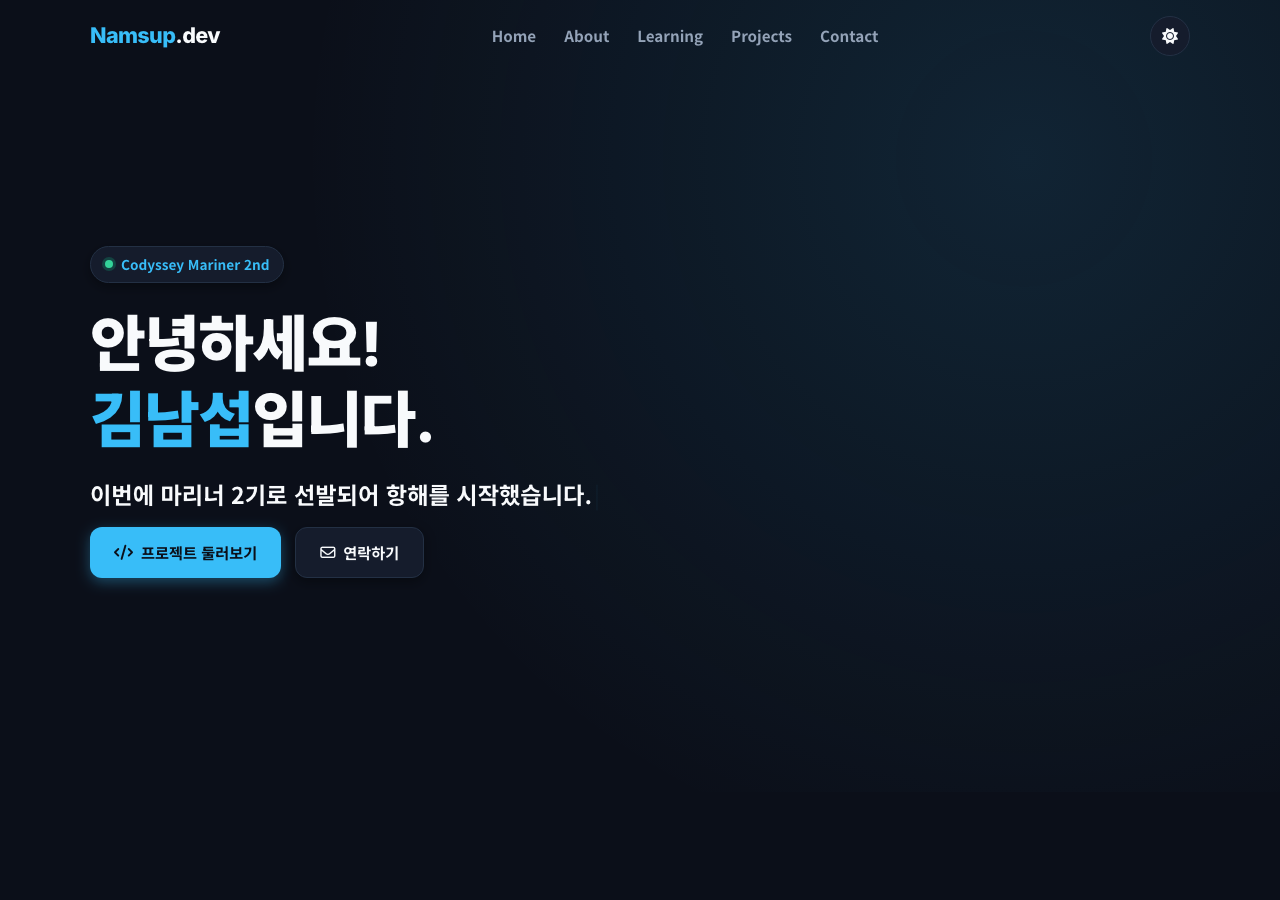
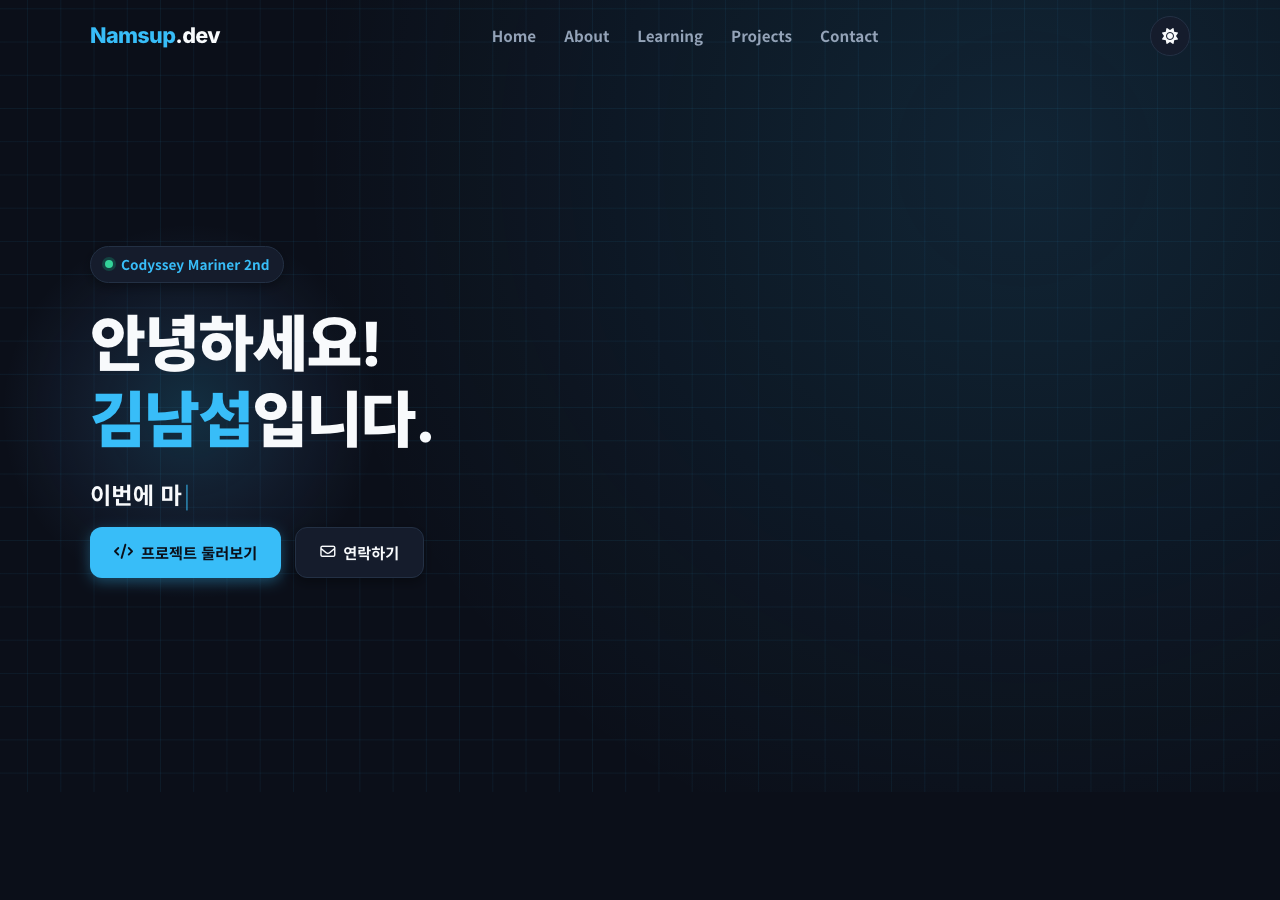
docs: update screenshots with 3D features and add query theme support

Changed region(s): [[0.0625, 0.3733, 0.4688, 0.56], [0.25, 0.5911, 0.2812, 0.6222]]

diff --git a/js/main.js b/js/main.js
@@ -36,13 +36,18 @@ document.addEventListener('DOMContentLoaded', () => {
     const themeToggleBtn = document.querySelector('#themeToggleBtn');
     const themeIcon = document.querySelector('#themeIcon');
 
+    // 0) URL 쿼리 파라미터 확인 (?theme=light 또는 ?theme=dark)
+    const urlTheme = new URLSearchParams(window.location.search).get('theme');
+
     // 1) localStorage 저장된 설정 확인
     const savedTheme = localStorage.getItem('portfolio-theme');
 
     // 2) 보너스 과제: 시스템 다크 모드 감지 (prefers-color-scheme)
     const prefersDark = window.matchMedia('(prefers-color-scheme: dark)').matches;
 
-    if (savedTheme) {
+    if (urlTheme === 'light' || urlTheme === 'dark') {
+      state.theme = urlTheme;
+    } else if (savedTheme) {
       state.theme = savedTheme;
     } else if (prefersDark) {
       state.theme = 'dark';
